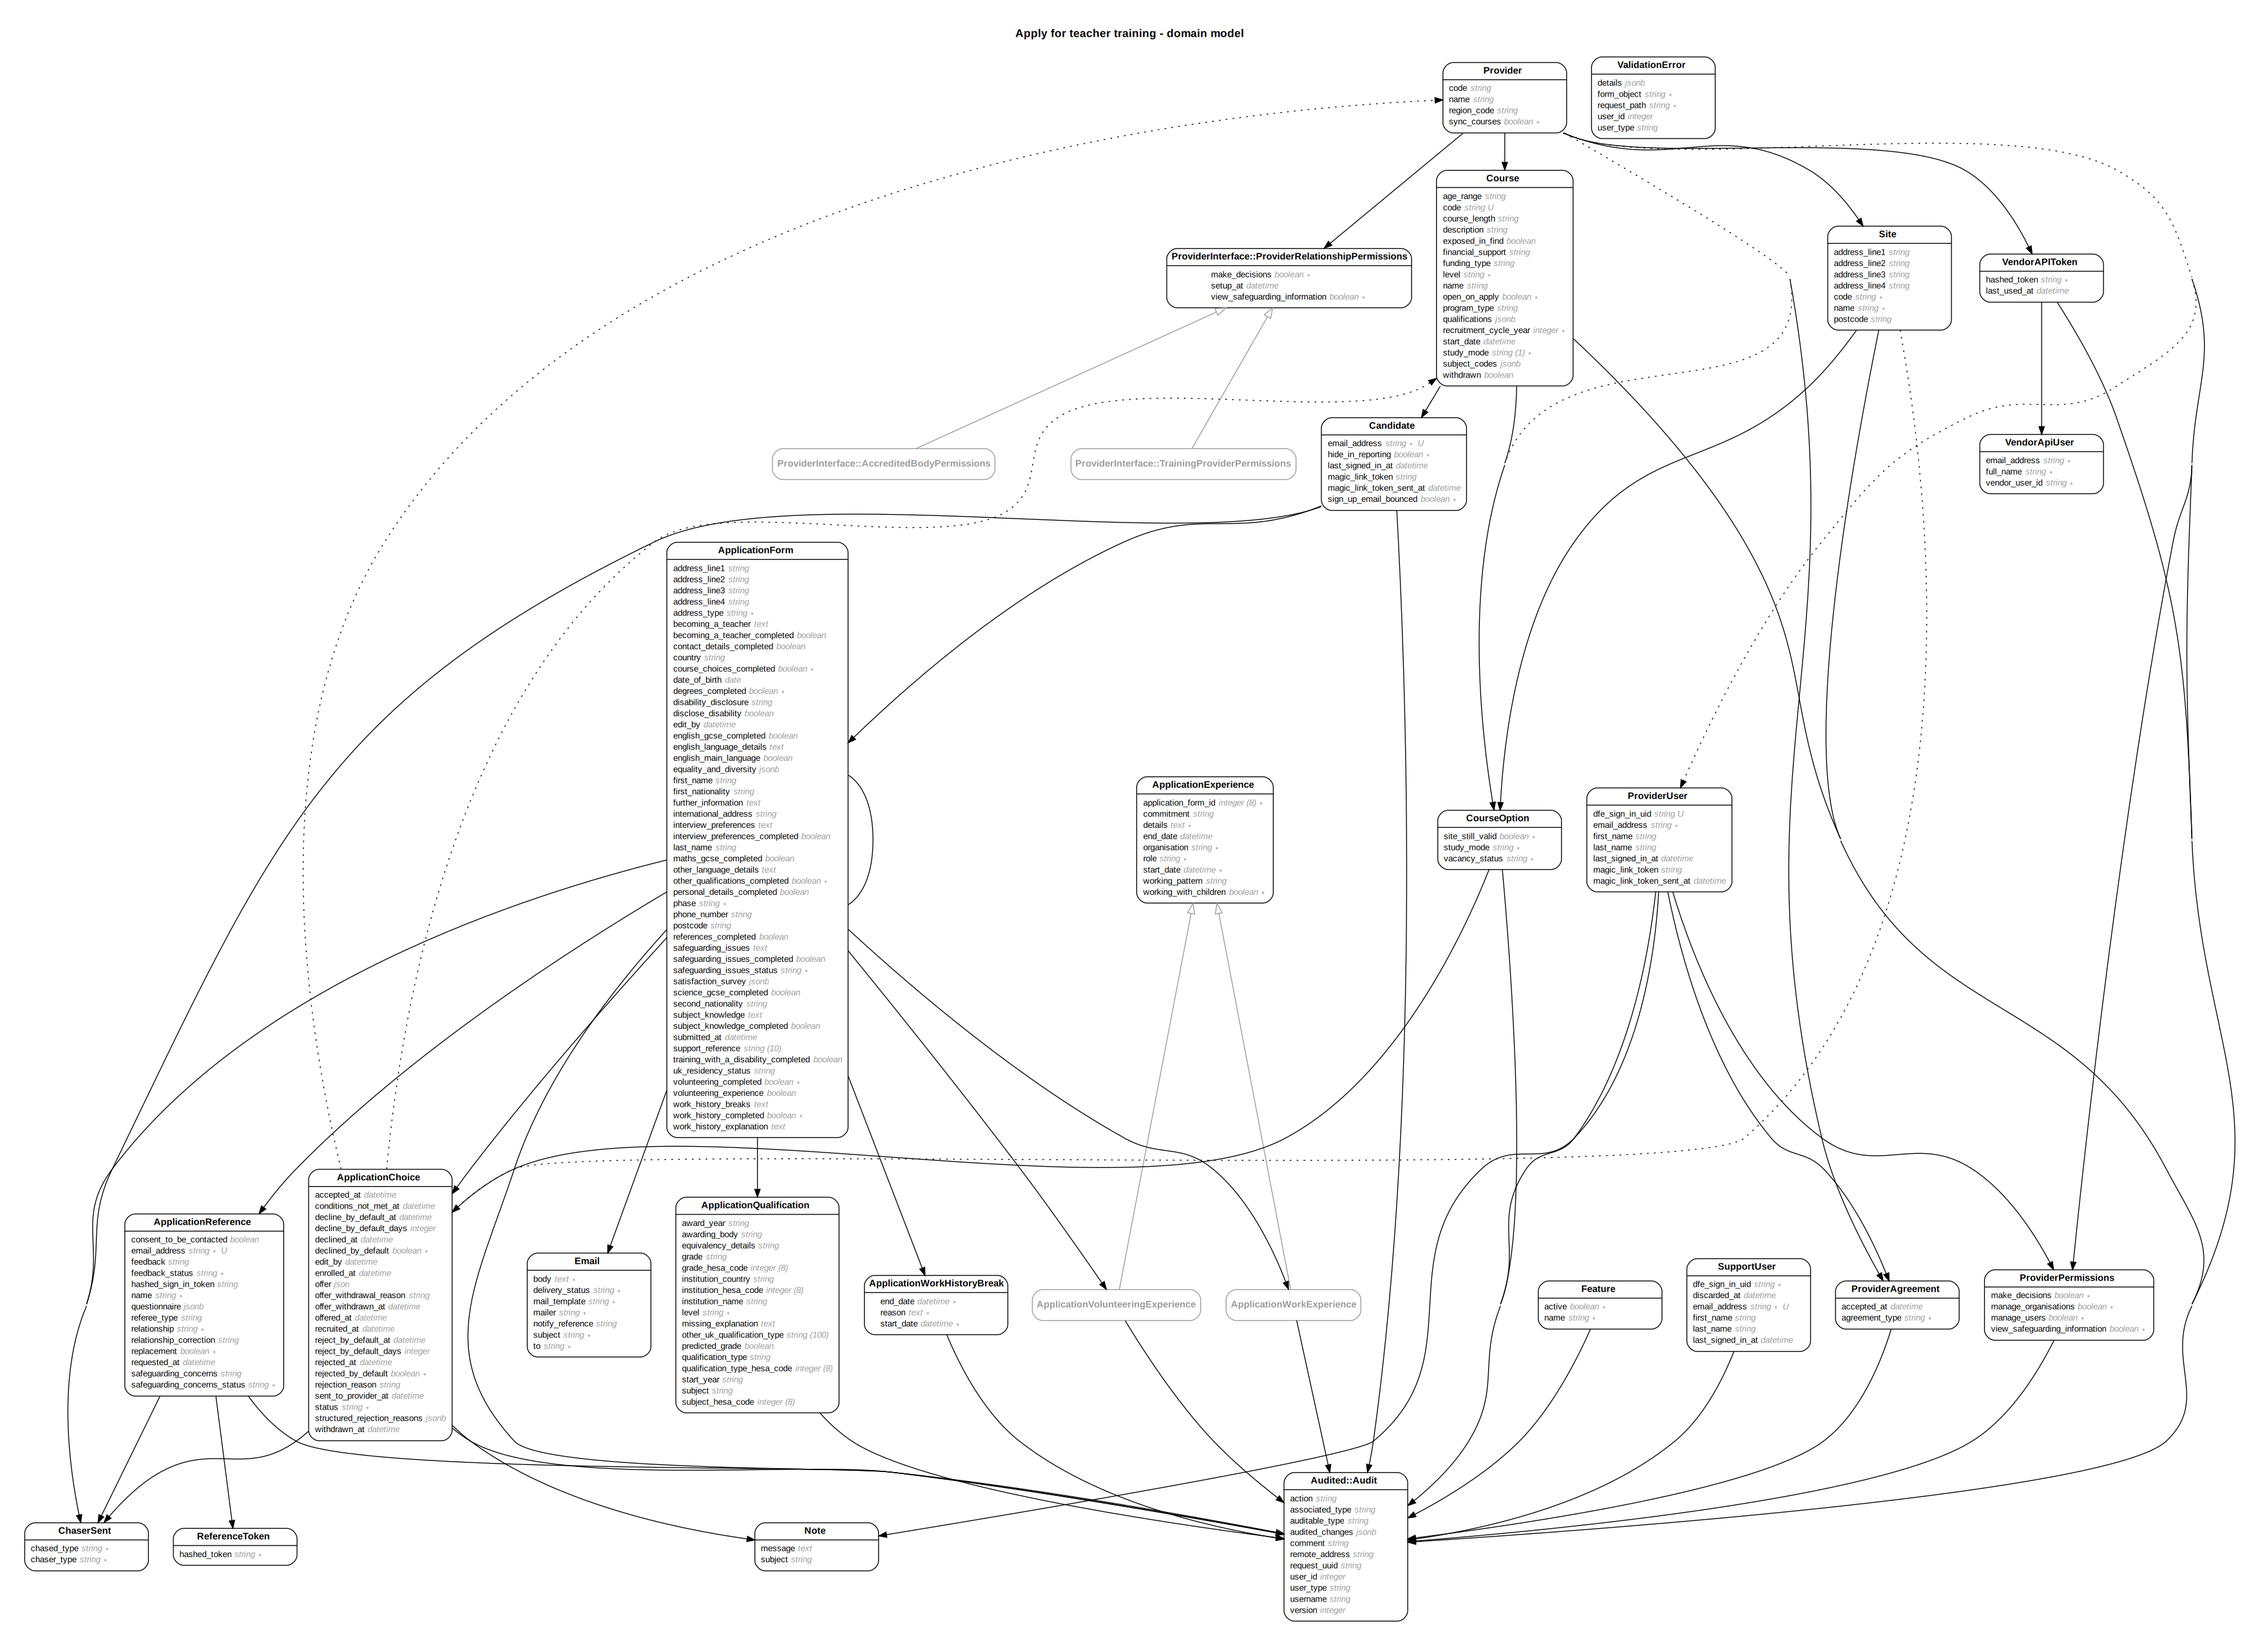
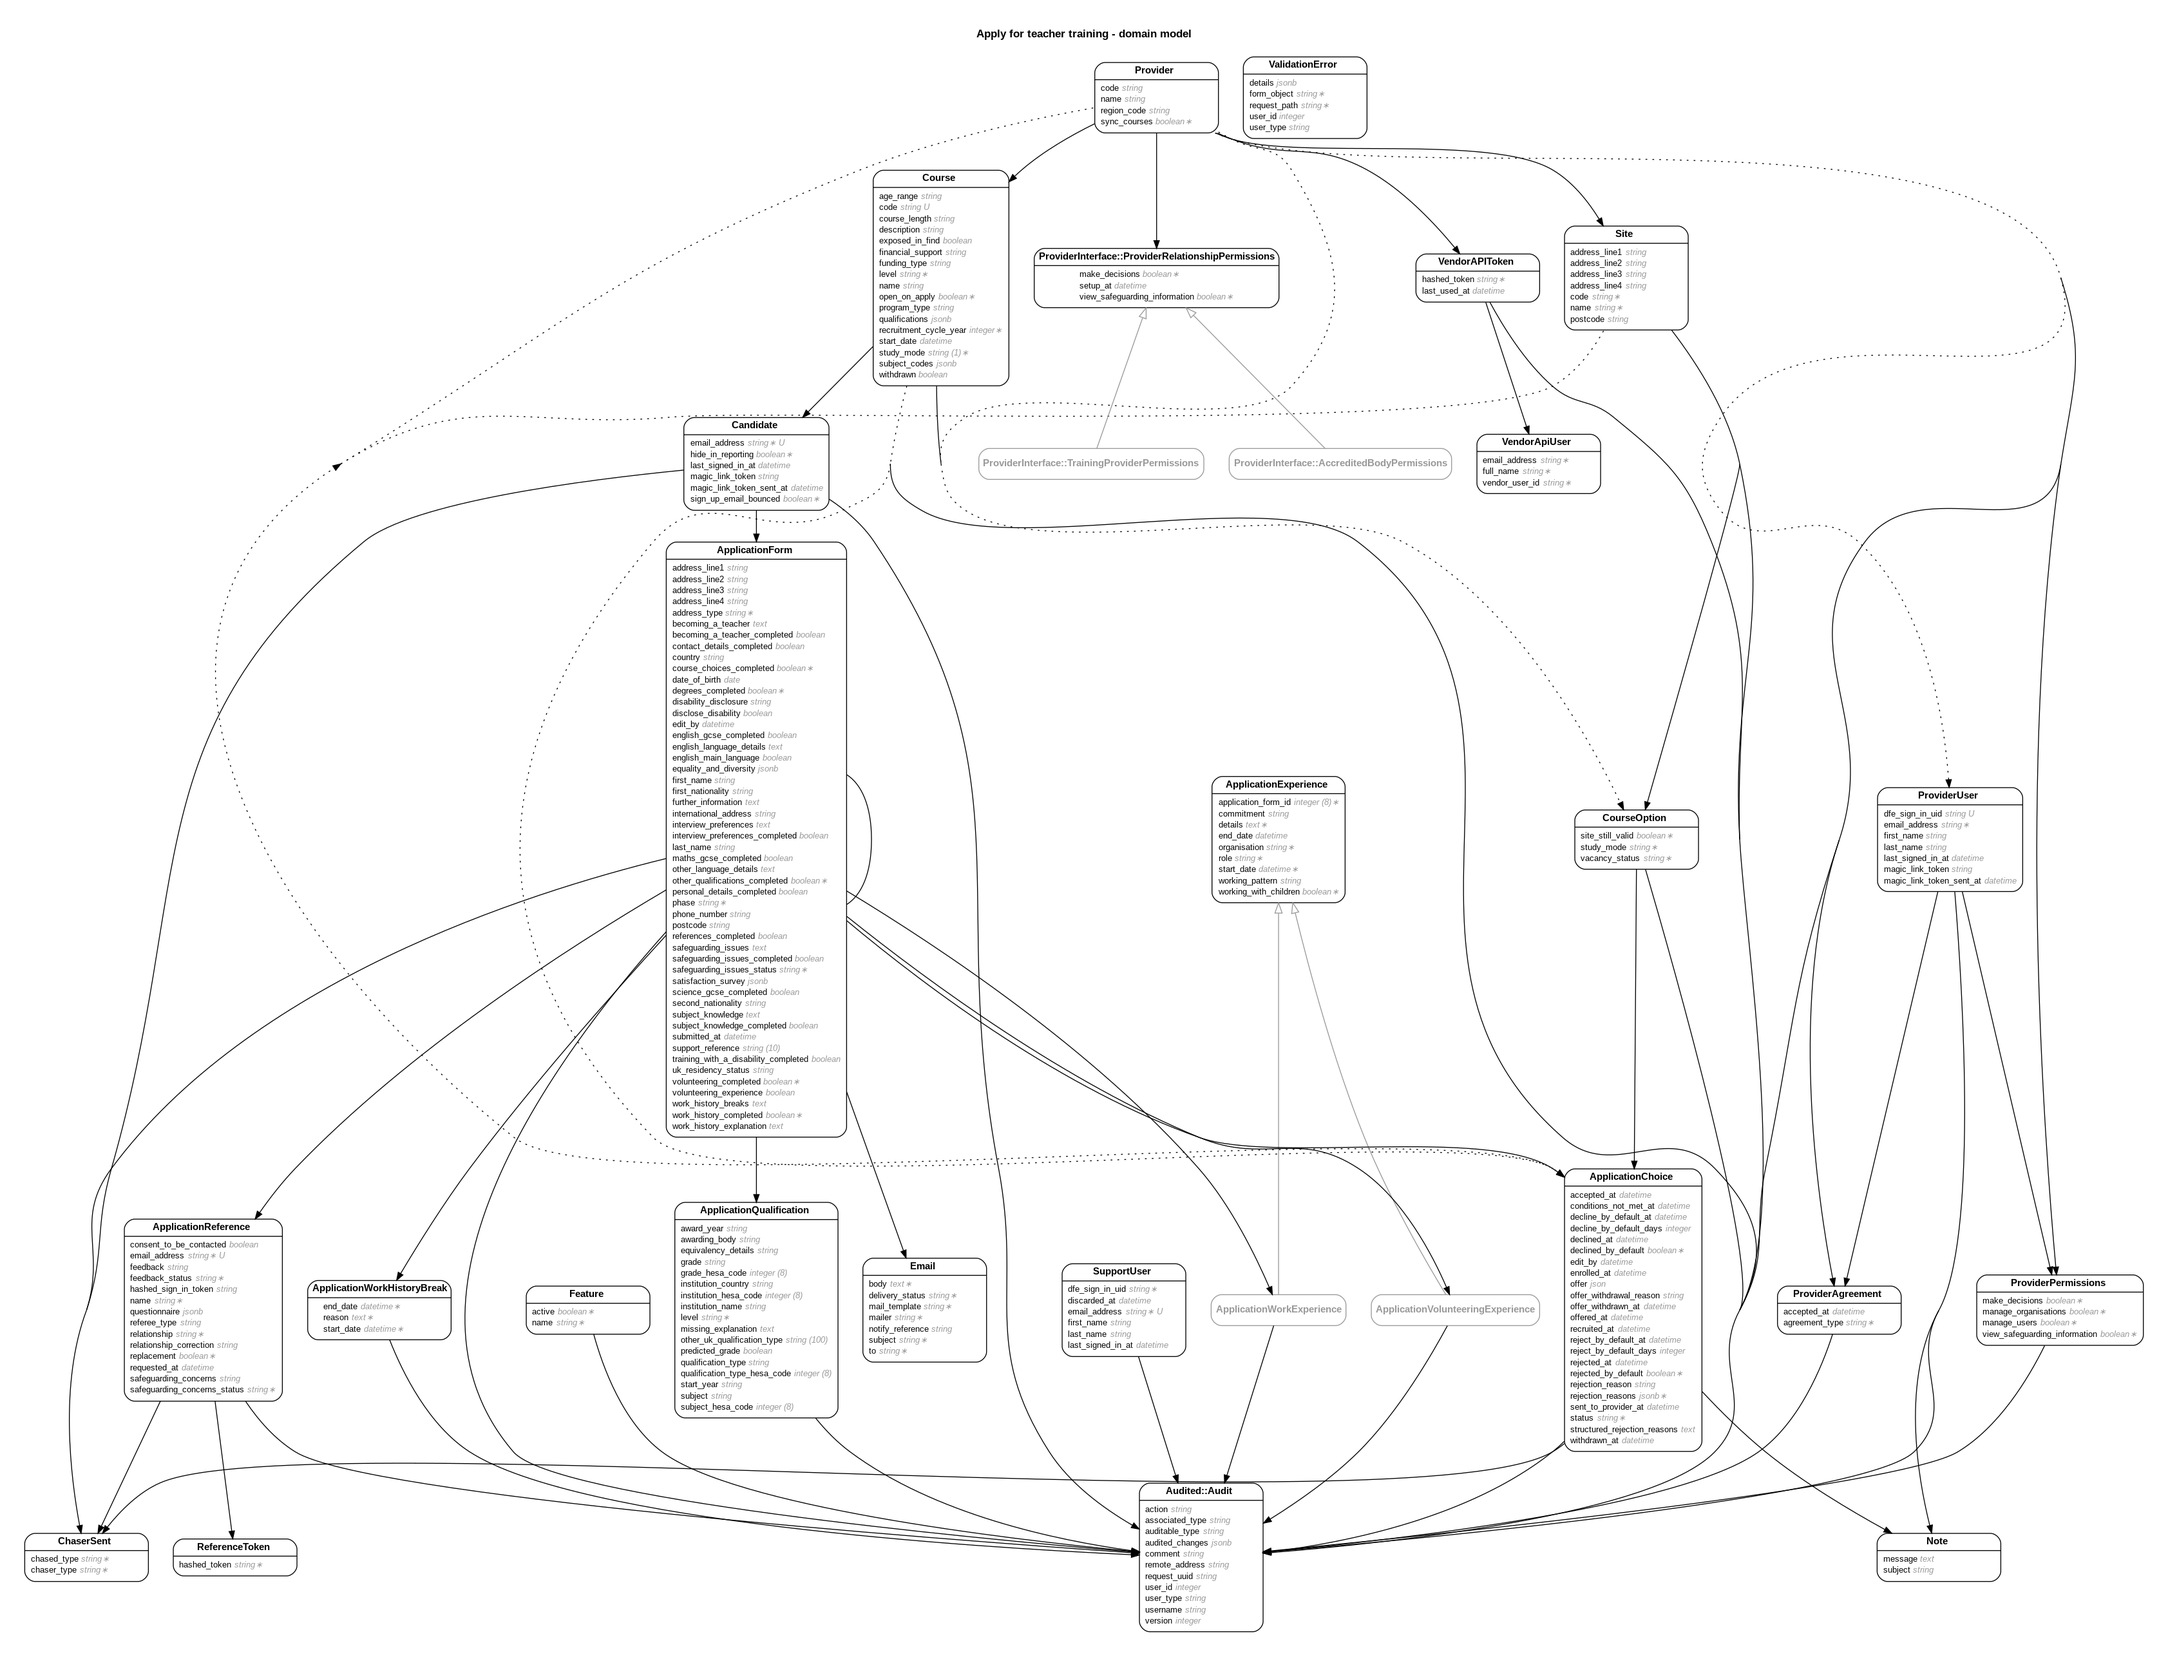
Change column type of structured_rejection_reasons to text
We'll be serializing YAML data in this field.

diff --git a/db/schema.rb b/db/schema.rb
@@ -10,7 +10,7 @@
 #
 # It's strongly recommended that you check this file into your version control system.
 
-ActiveRecord::Schema.define(version: 2020_06_19_132510) do
+ActiveRecord::Schema.define(version: 2020_06_23_101243) do
 
   # These are extensions that must be enabled in order to support this database
   enable_extension "pgcrypto"
@@ -43,7 +43,7 @@ ActiveRecord::Schema.define(version: 2020_06_19_132510) do
     t.string "offer_withdrawal_reason"
     t.datetime "offer_withdrawn_at"
     t.datetime "sent_to_provider_at"
-    t.jsonb "structured_rejection_reasons"
+    t.text "structured_rejection_reasons"
     t.index ["application_form_id"], name: "index_application_choices_on_application_form_id"
     t.index ["course_option_id"], name: "index_application_choices_on_course_option_id"
   end

diff --git a/db/migrate/20200623101243_change_structured_rejection_reasons_column_type.rb b/db/migrate/20200623101243_change_structured_rejection_reasons_column_type.rb
@@ -1,0 +1,5 @@
+class ChangeStructuredRejectionReasonsColumnType < ActiveRecord::Migration[6.0]
+  def change
+    change_column :application_choices, :structured_rejection_reasons, :text
+  end
+end
